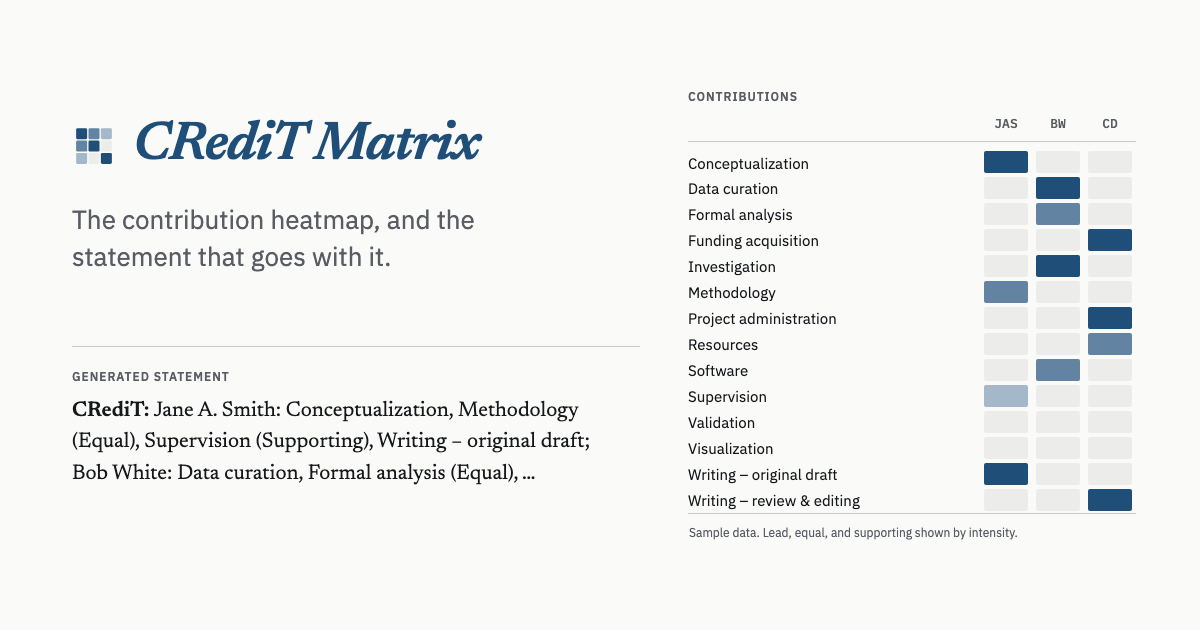
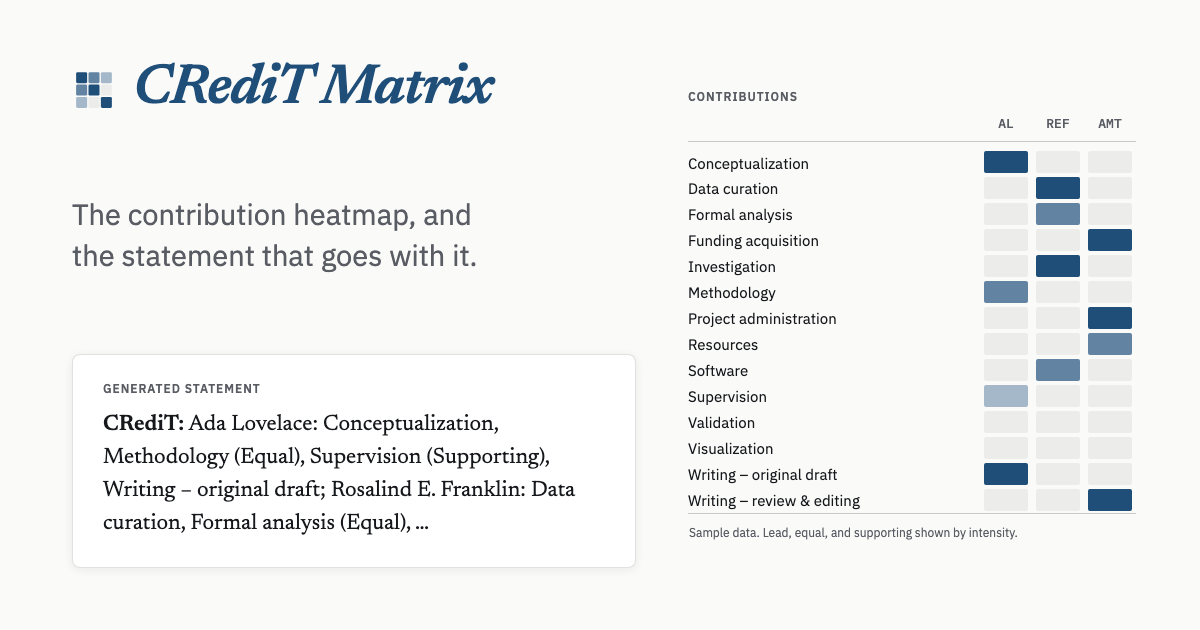
feat(sample): open the sample in Levels, and show it off everywhere
- loadSample switches the draft to Levels: its graded scores are the
  point, and yes/no hid them
- mobile role buttons keep their label off the dynamic fill (a mid-tone
  preset has no 4.5:1 text companion); a swatch carries the color
- hero screenshot and social card regenerated with the graded view and
  the current sample names

diff --git a/e2e/happy-path.spec.ts b/e2e/happy-path.spec.ts
@@ -41,15 +41,15 @@ test.describe("Happy path UI flows", () => {
     await expect(page.getByRole("button", { name: /^Remove / })).toHaveCount(3);
     await expect(page.getByLabel("Name or ORCID iD", { exact: true }).first()).toHaveValue("Ada Lovelace");
 
-    // The contribution grid renders one editable cell per role × author. In
-    // the default Yes / no mode, assigned cells read as "Contributed"; switching
-    // to Levels surfaces the sample's graded scores.
-    const cell = page.getByRole("button", { name: "Conceptualization for Ada Lovelace: Contributed" });
-    await expect(cell).toHaveAttribute("aria-pressed", "true");
+    // The sample's scores are graded, so it opens in Levels; switching to
+    // Yes / no collapses them to plain Contributed toggles.
+    const cell = page.getByRole("button", { name: "Conceptualization for Ada Lovelace: Lead" });
+    await expect(cell).toBeVisible();
     await expect(cell.locator("svg")).toBeVisible();
     await expect(page.getByText("Ready to export", { exact: true })).toBeVisible();
-    await page.getByRole("radio", { name: "Levels" }).click();
-    await expect(page.getByRole("button", { name: "Conceptualization for Ada Lovelace: Lead" })).toBeVisible();
+    await page.getByRole("radio", { name: "Yes / no" }).click();
+    const toggled = page.getByRole("button", { name: "Conceptualization for Ada Lovelace: Contributed" });
+    await expect(toggled).toHaveAttribute("aria-pressed", "true");
 
     // A statement is generated from the sample contributions.
     await expect(page.getByText(/^CRediT:/)).toBeVisible();
@@ -58,6 +58,8 @@ test.describe("Happy path UI flows", () => {
   test("Clicking a grid cell toggles the contribution into the statement", async ({ page }) => {
     await page.goto("/");
     await page.getByRole("button", { name: "Load sample data" }).click();
+    // The sample opens in Levels; this test is about the yes/no toggle.
+    await page.getByRole("radio", { name: "Yes / no" }).click();
 
     // Ada has no Data curation in the sample; one click assigns it.
     const cell = page.getByRole("button", { name: /^Data curation for Ada Lovelace:/ });
@@ -292,7 +294,7 @@ test.describe("Happy path UI flows", () => {
     await expect(onScreen(page, /Rosalind E\. Franklin's roles were filled in/)).toBeVisible();
 
     // Her row lands; her opinion about Ada's row does not.
-    await expect(page.getByRole("button", { name: "Validation for Rosalind E. Franklin: Contributed" })).toBeVisible();
+    await expect(page.getByRole("button", { name: "Validation for Rosalind E. Franklin: Lead" })).toBeVisible();
     await expect(page.getByRole("button", { name: "Validation for Ada Lovelace: None" })).toBeVisible();
   });
 
@@ -320,7 +322,7 @@ test.describe("Happy path UI flows", () => {
     await page.locator("#import-text").fill(returnedUrl);
     await page.getByRole("button", { name: "Import data" }).click();
 
-    await expect(page.getByRole("button", { name: "Validation for Rosalind E. Franklin: Contributed" })).toBeVisible();
+    await expect(page.getByRole("button", { name: "Validation for Rosalind E. Franklin: Lead" })).toBeVisible();
     await expect(page.getByRole("button", { name: "Validation for Ada Lovelace: None" })).toBeVisible();
 
     // Dismissing the outcome strip takes the row's Updated mark down with it.
@@ -410,9 +412,10 @@ test.describe("Happy path UI flows", () => {
     await page.locator("#import-text").fill(returnedUrl);
     await page.getByRole("button", { name: "Import data" }).click();
 
-    // It switched to paper two and merged there.
-    await expect(page.getByRole("button", { name: /^Drafts: Paper two/ })).toBeVisible();
+    // It switched to paper two and merged there. Paper two is an ordinary
+    // yes/no draft, so the merged full score reads as Contributed.
     await expect(page.getByRole("button", { name: "Validation for Rosalind E. Franklin: Contributed" })).toBeVisible();
+    await expect(page.getByRole("button", { name: /^Drafts: Paper two/ })).toBeVisible();
 
     // Paper one still has its three sample contributors, unchanged.
     await page.getByRole("button", { name: /^Drafts:/ }).click();
@@ -767,7 +770,7 @@ test.describe("Happy path UI flows", () => {
     await page.getByRole("button", { name: "Clear every role" }).click();
     await expect(page.getByRole("button", { name: "Conceptualization for Ada Lovelace: None" })).toBeVisible();
     await page.getByRole("button", { name: "Assign every role", exact: true }).click();
-    await expect(page.getByRole("button", { name: "Conceptualization for Ada Lovelace: Contributed" })).toBeVisible();
+    await expect(page.getByRole("button", { name: "Conceptualization for Ada Lovelace: Equal" })).toBeVisible();
   });
 
   // The "One role" panel (setRoleScores) had no coverage at any level, so a
@@ -778,9 +781,9 @@ test.describe("Happy path UI flows", () => {
     await expect(page.getByRole("button", { name: /^Remove / })).toHaveCount(3);
 
     const everyoneOnSoftware = [
-      page.getByRole("button", { name: "Software for Ada Lovelace: Contributed" }),
-      page.getByRole("button", { name: "Software for Rosalind E. Franklin: Contributed" }),
-      page.getByRole("button", { name: "Software for Alan M. Turing: Contributed" }),
+      page.getByRole("button", { name: "Software for Ada Lovelace: Equal" }),
+      page.getByRole("button", { name: "Software for Rosalind E. Franklin: Equal" }),
+      page.getByRole("button", { name: "Software for Alan M. Turing: Equal" }),
     ];
 
     await page.getByText("Bulk assign", { exact: true }).click();

diff --git a/docs/brand/opengraph-image.html b/docs/brand/opengraph-image.html
@@ -4,15 +4,18 @@
  *{box-sizing:border-box}
  html,body{margin:0;padding:0}
  body{width:1200px;height:630px;background:#fafaf9;font-family:"IBM Plex Sans",system-ui;color:#16181c;
-      display:grid;grid-template-columns:1fr 448px;gap:48px;padding:64px 64px 64px 72px;overflow:hidden}
- .left{display:flex;flex-direction:column;justify-content:center}
+      display:grid;grid-template-columns:1fr 448px;gap:52px;padding:56px 64px 56px 72px;overflow:hidden}
+ .left{display:flex;flex-direction:column;justify-content:space-between;padding:6px 0}
  .lock{display:flex;align-items:center;gap:17px}
- .wm{font-family:Newsreader,serif;font-style:italic;font-weight:600;font-size:54px;line-height:1;
+ .wm{font-family:Newsreader,serif;font-style:italic;font-weight:600;font-size:56px;line-height:1;
      letter-spacing:-.02em;color:#1f4e79}
- .sub{margin-top:28px;font-size:26px;line-height:1.45;color:#595c63;max-width:28ch}
- .out{margin-top:44px;padding-top:22px;border-top:1px solid #c9c9c5}
+ .sub{margin-top:26px;font-size:29px;line-height:1.4;color:#595c63;max-width:24ch;text-wrap:balance}
+ /* The statement is the app's real output, so it sits on the result card the
+    app gives it: bright paper, 8px corners, a slightly stronger shadow. */
+ .out{background:#fff;border:1px solid rgba(201,201,197,.55);border-radius:8px;padding:26px 30px;
+      box-shadow:0 2px 10px rgba(22,24,28,.07)}
  .cap{font-size:12px;font-weight:600;letter-spacing:.08em;text-transform:uppercase;color:#595c63}
- .stmt{margin-top:12px;font-family:Newsreader,serif;font-size:21px;line-height:1.5;color:#16181c;max-width:46ch}
+ .stmt{margin:13px 0 0;font-family:Newsreader,serif;font-size:22px;line-height:1.5;color:#16181c;max-width:46ch}
  .stmt b{font-weight:600}
  table{border-collapse:collapse;width:100%;align-self:center}
  caption{caption-side:top;text-align:left;font-size:12px;font-weight:600;letter-spacing:.08em;
@@ -38,17 +41,17 @@
   <p class="sub">The contribution heatmap, and the statement that goes with it.</p>
   <div class="out">
     <div class="cap">Generated statement</div>
-    <p class="stmt"><b>CRediT:</b> Jane A. Smith: Conceptualization, Methodology (Equal), Supervision (Supporting), Writing – original draft; Bob White: Data curation, Formal analysis (Equal), …</p>
+    <p class="stmt"><b>CRediT:</b> Ada Lovelace: Conceptualization, Methodology (Equal), Supervision (Supporting), Writing – original draft; Rosalind E. Franklin: Data curation, Formal analysis (Equal), …</p>
   </div>
 </div>
 <table id="m"><caption>Contributions</caption></table>
 <script>"use strict";
 const L='#1f4e79',E='#6283a1',S='#a5b8c9',N='#ececea';
 const roles=["Conceptualization","Data curation","Formal analysis","Funding acquisition","Investigation","Methodology","Project administration","Resources","Software","Supervision","Validation","Visualization","Writing – original draft","Writing – review & editing"];
-const data={"Jane A. Smith":{Conceptualization:100,Methodology:66,"Writing – original draft":100,Supervision:33},
- "Bob White":{Investigation:100,"Data curation":100,Software:66,"Formal analysis":66},
- "Carol Davis":{"Funding acquisition":100,"Project administration":100,"Writing – review & editing":100,Resources:66}};
-const ini={"Jane A. Smith":"JAS","Bob White":"BW","Carol Davis":"CD"};
+const data={"Ada Lovelace":{Conceptualization:100,Methodology:66,"Writing – original draft":100,Supervision:33},
+ "Rosalind E. Franklin":{Investigation:100,"Data curation":100,Software:66,"Formal analysis":66},
+ "Alan M. Turing":{"Funding acquisition":100,"Project administration":100,"Writing – review & editing":100,Resources:66}};
+const ini={"Ada Lovelace":"AL","Rosalind E. Franklin":"REF","Alan M. Turing":"AMT"};
 const fill=s=>s>66?L:s>33?E:s>0?S:N;
 const names=Object.keys(data);
 document.getElementById('m').innerHTML+=

diff --git a/src/components/steps/ContributionGrid.tsx b/src/components/steps/ContributionGrid.tsx
@@ -537,19 +537,27 @@ export function ContributionGrid() {
                     level,
                   })}
                   onClick={() => handleCellClick(selectedAuthor, roleIndex, score)}
-                  className={`contribution-cell flex min-h-11 min-w-24 shrink-0 items-center justify-center gap-1.5 rounded-lg px-3 text-xs font-semibold transition-[background-color,box-shadow] duration-[120ms] ease-[var(--ease-out)] focus-visible:outline-none focus-visible:ring-2 focus-visible:ring-primary disabled:cursor-not-allowed disabled:opacity-40 ${
-                    score > 0 ? "shadow-sm" : "bg-surface-container-high text-on-surface-variant"
+                  className={`contribution-cell flex min-h-11 min-w-24 shrink-0 items-center justify-center gap-1.5 rounded-lg bg-surface-container-high px-3 text-xs font-semibold transition-[background-color,box-shadow] duration-[120ms] ease-[var(--ease-out)] focus-visible:outline-none focus-visible:ring-2 focus-visible:ring-primary disabled:cursor-not-allowed disabled:opacity-40 ${
+                    score > 0 ? "text-on-surface shadow-sm" : "text-on-surface-variant"
                   }`}
-                  // Measured, not hardcoded white: the pale fills (light presets,
-                  // "supporting") fail 4.5:1 under white text, the same trap the
-                  // desktop cell's check mark already avoids with onColor.
-                  style={(() => {
-                    if (score <= 0) return undefined;
-                    const fill = heatCellColor(heatmapMonoColor, graded ? score : 100);
-                    return { backgroundColor: fill, color: onColor(fill) };
-                  })()}
                 >
-                  {score > 0 && <Check aria-hidden="true" className="size-4" strokeWidth={3} />}
+                  {/* The label never sits on the dynamic fill: a mid-tone
+                      preset has no 4.5:1 text companion at all, and the
+                      palette is user-picked. The swatch carries the color;
+                      its check needs only the 3:1 non-text ratio, which
+                      onColor guarantees. */}
+                  {score > 0 && (
+                    <span
+                      aria-hidden="true"
+                      className="flex size-5 shrink-0 items-center justify-center rounded"
+                      style={(() => {
+                        const fill = heatCellColor(heatmapMonoColor, graded ? score : 100);
+                        return { backgroundColor: fill, color: onColor(fill) };
+                      })()}
+                    >
+                      <Check className="size-3.5" strokeWidth={3} />
+                    </span>
+                  )}
                   {level}
                 </button>
               </li>

diff --git a/src/store/contribution-store.test.ts b/src/store/contribution-store.test.ts
@@ -67,6 +67,8 @@ describe("contribution store", () => {
       expect(authors[0]?.contributions.find((c) => c.role === "Conceptualization")?.score).toBe(100);
       expect(authors[1]?.contributions.find((c) => c.role === "Investigation")?.score).toBe(100);
       expect(authors[2]?.contributions.find((c) => c.role === "Conceptualization")?.score).toBe(0);
+      // Graded scores deserve the graded view: the sample switches to Levels.
+      expect(store().inputMode).toBe("levels");
     });
 
     it("refuses the sample under a claim, like every other whole-roster write", () => {

diff --git a/src/store/contribution-store.ts b/src/store/contribution-store.ts
@@ -697,6 +697,9 @@ export const useContributionStore = create<ContributionState>()(
         set((state) => {
           if (claimRefuses(state)) return;
           state.authors = normalizeAuthors(buildSampleAuthors(names));
+          // The sample's scores are graded; yes/no would hide the very thing
+          // it exists to demonstrate.
+          state.inputMode = "levels";
         }),
 
       addAuthor: (name, orcid) => {
